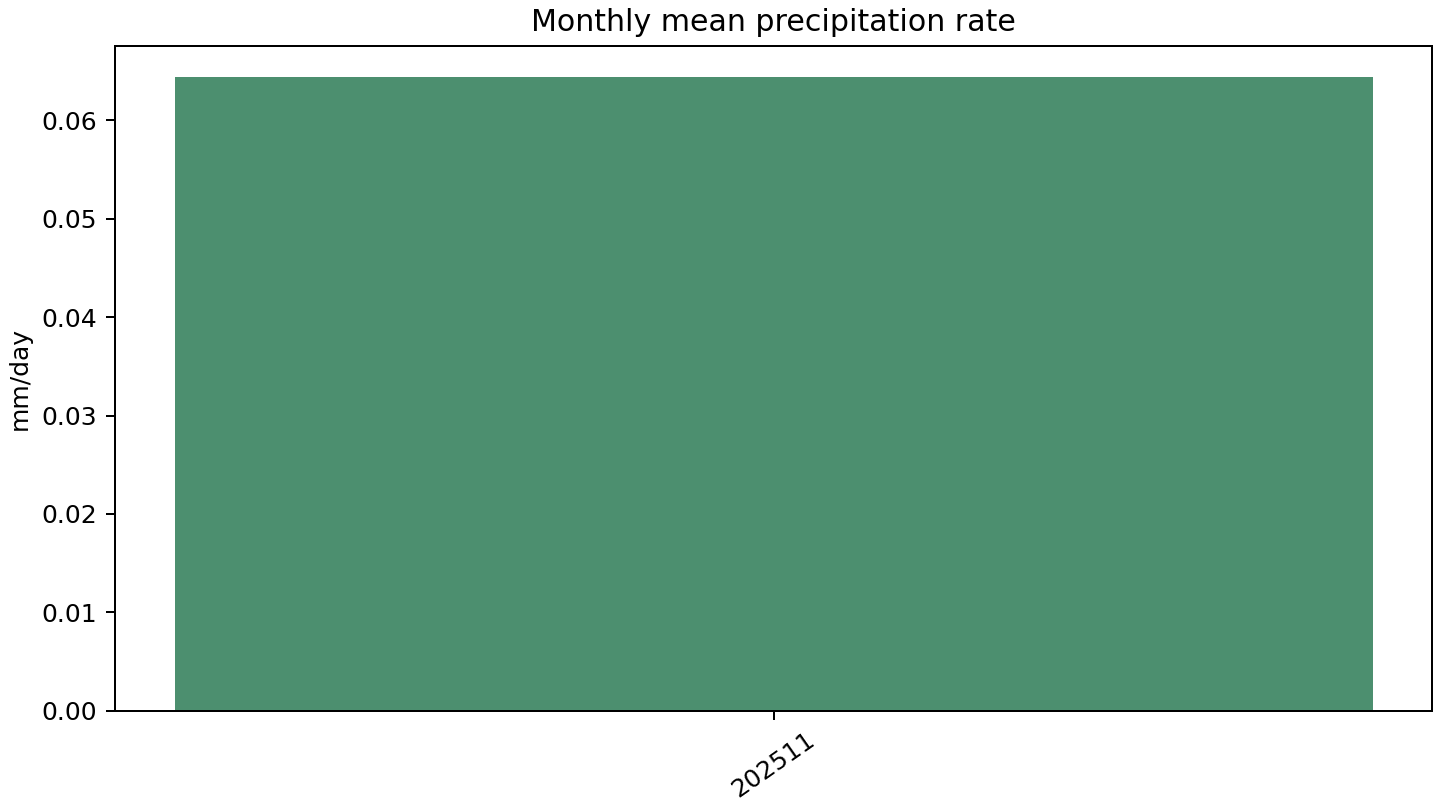
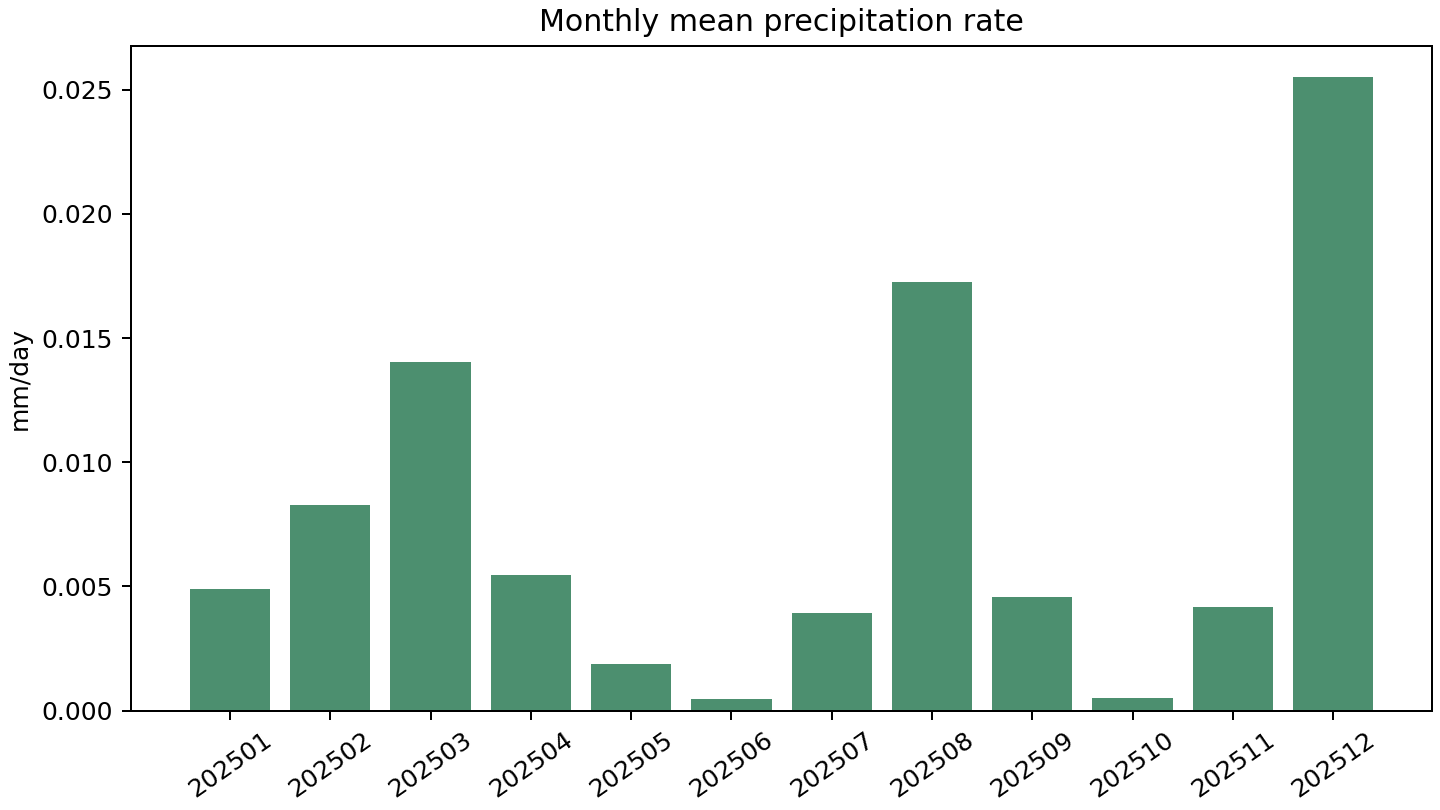
Update monthly precipitation analysis source

diff --git a/analysis/analyze_saudi_region_output.py b/analysis/analyze_saudi_region_output.py
@@ -3,6 +3,7 @@
 from __future__ import annotations
 
 import argparse
+import calendar
 import json
 from datetime import datetime
 from pathlib import Path
@@ -67,6 +68,10 @@ def normalize_grid(values, lat, lon):
 def mean_number(values):
     summary = numeric_summary(values)
     return None if summary is None else summary["mean"]
+
+
+def days_in_month(month):
+    return calendar.monthrange(int(str(month)[:4]), int(str(month)[4:6]))[1]
 
 
 def add_summary_fields(record, prefix, values, fields=("mean", "max")):
@@ -138,16 +143,38 @@ def collect_analysis(data_root=DEFAULT_DATA_ROOT, start=None, end=None, limit_da
     months = filter_periods((path.name for path in ds1_month_dirs), start[:6] if start else None, end[:6] if end else None)
     monthly_records = []
     for month in months:
-        path = first_file(root / "ds1" / month, f"*MONTH_AVG*{month}.nc")
-        if path is None:
+        monthly_dir = root / "ds1" / month
+        avg_path = first_file(monthly_dir, f"*MONTH_AVG*{month}.nc")
+        acc_path = first_file(monthly_dir, f"*MONTH_ACC*{month}.nc")
+        if avg_path is None and acc_path is None:
             continue
-        record = {"period": month, "source": str(path)}
-        with xr.open_dataset(path) as ds:
+        record = {"period": month}
+        if acc_path is not None:
+            record["acc_source"] = str(acc_path)
+            with xr.open_dataset(acc_path) as ds:
+                if "tp" in ds:
+                    add_summary_fields(record, "precip_total_mm", ds["tp"].values)
+                    add_summary_fields(record, "precip_mmday", ds["tp"].values / days_in_month(month))
+                if "acpcp" in ds:
+                    add_summary_fields(record, "convective_precip_mm", ds["acpcp"].values, fields=("mean", "max"))
+                if "ncpcp" in ds:
+                    add_summary_fields(record, "large_scale_precip_mm", ds["ncpcp"].values, fields=("mean", "max"))
+                if {"acpcp", "tp"}.issubset(ds):
+                    ratio = safe_ratio(ds["acpcp"].values, ds["tp"].values)
+                    add_summary_fields(record, "convective_precip_ratio", ratio, fields=("mean",))
+        if avg_path is None:
+            monthly_records.append(record)
+            continue
+        record["avg_source"] = str(avg_path)
+        with xr.open_dataset(avg_path) as ds:
             if "prate" in ds:
-                add_summary_fields(record, "precip_mmday", ds["prate"].values * 86400.0)
+                record.setdefault("avg_prate_source", str(avg_path))
+                if "precip_mmday_mean" not in record:
+                    add_summary_fields(record, "precip_mmday", ds["prate"].values * 86400.0)
             if {"cpr", "prate"}.issubset(ds):
                 ratio = safe_ratio(ds["cpr"].values, ds["prate"].values)
-                add_summary_fields(record, "convective_precip_ratio", ratio, fields=("mean",))
+                if "convective_precip_ratio_mean" not in record:
+                    add_summary_fields(record, "convective_precip_ratio", ratio, fields=("mean",))
             if {"avg_ishf", "avg_slhtf"}.issubset(ds):
                 ratio = safe_ratio(ds["avg_ishf"].values, ds["avg_slhtf"].values)
                 add_summary_fields(record, "bowen_ratio", ratio, fields=("mean",))
@@ -431,7 +458,7 @@ def build_markdown_report(analysis, output_dir, figure_paths=None):
             "- `t2m_mean_c`：DS2 日地表 2 米气温，已从 K 转换为 C。",
             "- `tp_mean_mm`：DS2 日累计总降水，按裁剪区域求平均。",
             "- `ds10_daily_total_mean_mm`：DS10 高频卫星降水日聚合结果，脚本会跳过 `date`、`source_files` 等非数值字段。",
-            "- `precip_mmday_mean`：DS1 月平均降水率，按 `prate * 86400` 转换为 mm/day。",
+            "- `precip_mmday_mean`：DS1 月降水强度，优先按 `MONTH_ACC tp / 当月天数` 转换为 mm/day。",
             "",
             "## 数据质量提示",
             "",

diff --git a/tests/test_saudi_data_analysis.py b/tests/test_saudi_data_analysis.py
@@ -53,7 +53,9 @@ class SaudiDataAnalysisTests(unittest.TestCase):
         self.assertEqual(analysis["availability"]["ds2_days"], 1)
         self.assertEqual(analysis["availability"]["ds10_daily_days"], 1)
         self.assertEqual(analysis["monthly_records"][0]["period"], "202501")
-        self.assertAlmostEqual(analysis["monthly_records"][0]["precip_mmday_mean"], 8.64)
+        self.assertAlmostEqual(analysis["monthly_records"][0]["precip_total_mm_mean"], 62.0)
+        self.assertAlmostEqual(analysis["monthly_records"][0]["precip_mmday_mean"], 2.0)
+        self.assertAlmostEqual(analysis["monthly_records"][0]["convective_precip_ratio_mean"], 0.25)
         self.assertEqual(analysis["daily_records"][0]["period"], "20250101")
         self.assertAlmostEqual(analysis["daily_records"][0]["t2m_mean_c"], 36.85)
         self.assertAlmostEqual(analysis["daily_records"][0]["tp_mean_mm"], 12.0)
@@ -134,7 +136,12 @@ class SaudiDataAnalysisTests(unittest.TestCase):
 
         self._write_nc(
             root / "ds1" / month / f"saudi_ds1_ART_SINGLE_GLB_0P10_MONTH_AVG_{month}.nc",
-            {"prate": np.full(shape, 0.0001), "cpr": np.full(shape, 0.000025)},
+            {"prate": np.full(shape, np.nan), "cpr": np.full(shape, np.nan)},
+            coords,
+        )
+        self._write_nc(
+            root / "ds1" / month / f"saudi_ds1_ART_SINGLE_GLB_0P10_MONTH_ACC_{month}.nc",
+            {"tp": np.full(shape, 62.0), "acpcp": np.full(shape, 15.5), "ncpcp": np.full(shape, 46.5)},
             coords,
         )
         self._write_nc(

diff --git a/analysis/saudi_data_insights_report.md b/analysis/saudi_data_insights_report.md
@@ -1,7 +1,7 @@
 # 沙特区域气象数据洞察分析报告
 
 - 数据来源：`/Volumes/E/气象数据/saudi_region_output`
-- 生成时间：`2026-07-07T00:15:51`
+- 生成时间：`2026-07-07T06:11:14`
 - 月尺度样本：12 个；日尺度样本：364 天；SST 样本：365 天；卫星降水日聚合：273 天。
 
 ## 核心洞察
@@ -9,8 +9,7 @@
 - 区域平均 2m 气温最高日为 **20250814**，平均约 **35.98 C**。
 - DS2 日累计降水区域平均最高日为 **20251216**，平均约 **4.06 mm**。
 - DS10 卫星降水日聚合最高日为 **20250306**，区域平均约 **10.94 mm**。
-- 月平均降水率最高月份为 **202511**，区域平均约 **0.06 mm/day**。
-- DS1 月平均降水率共有 1/12 个月存在有效数值，其余月份为缺测或填充值。
+- 月平均降水率最高月份为 **202512**，区域平均约 **0.03 mm/day**。
 
 ## 可视化
 
@@ -27,7 +26,7 @@
 - `t2m_mean_c`：DS2 日地表 2 米气温，已从 K 转换为 C。
 - `tp_mean_mm`：DS2 日累计总降水，按裁剪区域求平均。
 - `ds10_daily_total_mean_mm`：DS10 高频卫星降水日聚合结果，脚本会跳过 `date`、`source_files` 等非数值字段。
-- `precip_mmday_mean`：DS1 月平均降水率，按 `prate * 86400` 转换为 mm/day。
+- `precip_mmday_mean`：DS1 月降水强度，优先按 `MONTH_ACC tp / 当月天数` 转换为 mm/day。
 
 ## 数据质量提示
 

diff --git a/progress.md b/progress.md
@@ -50,3 +50,6 @@
 - 用户要求修复 DS1 月降水指标来源；按 TDD 新增测试，要求加载 `ds1_acc` 并用 `MONTH_ACC tp/acpcp/ncpcp` 计算月降水指标。
 - 修改 `compute_indicators.py`：新增 `ds1_acc` 加载、`days_in_month()` 和 `add_monthly_accumulation_indicators()`，保留 `MONTH_AVG` 用于辐射/热通量等月背景。
 - 使用真实 20250101 数据输出到 `/private/tmp/saudi_indicator_smoke` 验证，`monthly_precip_total/monthly_precip_mmday/monthly_convective_precip/monthly_large_scale_precip/monthly_convective_precip_ratio` 均恢复有效。
+- 用户指出图文分析报告仍显示“202511 为最高且只有 11 月有值”；排查发现 `analysis/analyze_saudi_region_output.py` 仍直接使用 `MONTH_AVG prate * 86400`。
+- 按 TDD 修改分析脚本，优先使用 DS1 `MONTH_ACC tp / 当月天数`，并刷新 `analysis/summary.json`、`analysis/saudi_data_insights_report.md` 和月降水图。
+- 刷新后月降水 12 个月均有效，最高月份为 202512，区域平均约 0.03 mm/day。

diff --git a/findings.md b/findings.md
@@ -90,3 +90,4 @@
 - `vpd_kpa` 和 `apparent_temp_c` 在 20250102、20250130 出现明显派生异常，说明后续需要在派生指标前统一清理 GRIB 缺测值。
 - DS1 月降水只有 202511 有效的问题来自旧版指标脚本使用 `MONTH_AVG prate/cpr`；原始 `MONTH_AVG` 多数月份本身缺测，但裁剪后的 `MONTH_ACC tp/acpcp/ncpcp` 12 个月都有有效值。
 - `compute_indicators.py` 已改为加载 `ds1_acc` 并使用 `MONTH_ACC` 计算月累计降水、月平均降水强度和月对流降水比例；20250101 真实数据 smoke test 输出月降水相关指标均有 35200 个有效网格。
+- `analysis/analyze_saudi_region_output.py` 也曾使用 `MONTH_AVG prate` 生成图文报告中的月平均降水率，已改为优先使用 `MONTH_ACC tp / 当月天数`；刷新后 12 个月均有效，最高月份为 202512，区域平均约 0.03 mm/day。
